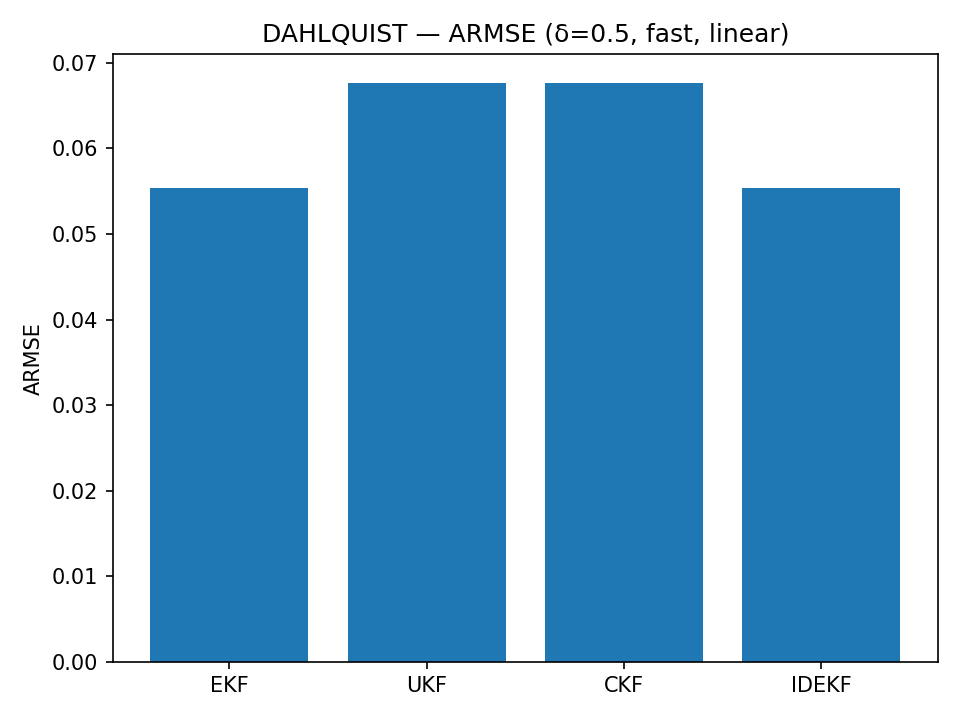
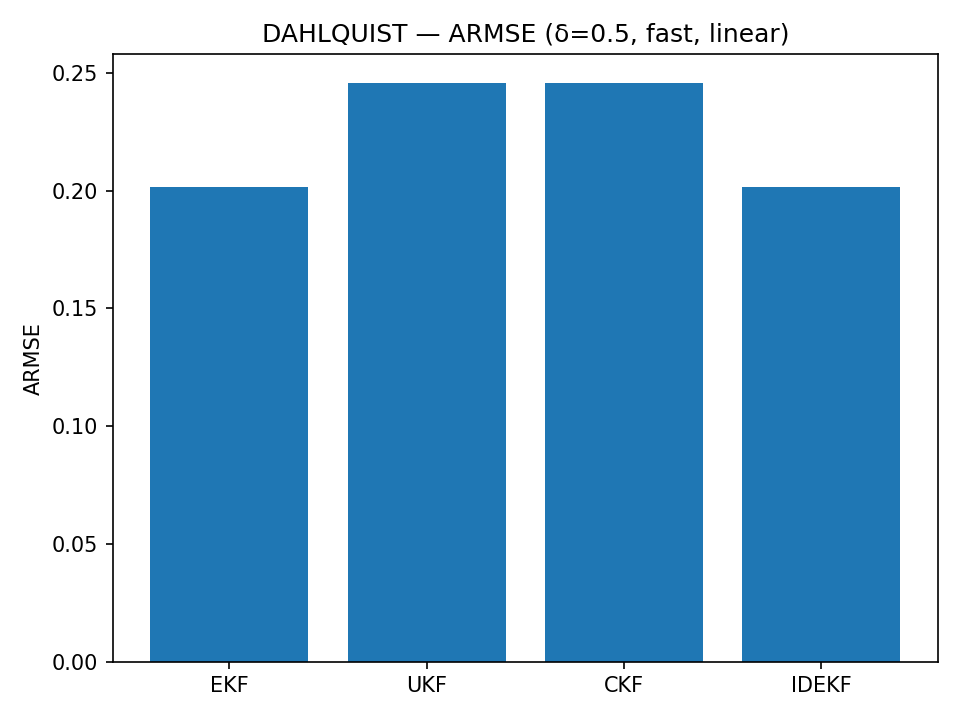
EM steps

diff --git a/run_armse.py b/run_armse.py
@@ -25,6 +25,39 @@ def integrate_truth(f, J, t0: float, tf: float, x0: np.ndarray, t_eval: np.ndarr
                     rtol=rtol, atol=atol, max_step=max_step)
     return sol.t, sol.y.T
 
+def simulate_truth_sde_em(f, G, Qc, t0: float, tf: float, x0: np.ndarray,
+                          t_grid: np.ndarray, max_dt: float, rng: np.random.Generator):
+    """
+    Simulate dx = f(t,x) dt + G dW, with diffusion sqrt(Qd) dW, Qd = G Qc G^T.
+    Uses Euler–Maruyama with substeps so each step <= max_dt.
+    """
+    # Make sure Qc is 2D
+    Qc = np.atleast_2d(Qc)
+    G  = np.atleast_2d(G)
+    Qd = G @ Qc @ G.T
+    # Cholesky of PSD Qd
+    L = np.linalg.cholesky(ensure_psd(Qd))
+
+    xs = [x0.astype(float).copy()]
+    t_prev = t_grid[0]
+    x = x0.astype(float).copy()
+
+    for t_curr in t_grid[1:]:
+        T = t_curr - t_prev
+        # number of EM substeps to respect absolute max_dt
+        n_sub = max(1, int(np.ceil(T / max_dt)))
+        h = T / n_sub
+        sqrt_h = np.sqrt(h)
+        t = t_prev
+        for _ in range(n_sub):
+            # Drift + diffusion
+            xi = rng.normal(size=L.shape[1])
+            x = x + f(t, x) * h + (L @ xi) * sqrt_h
+            t += h
+        xs.append(x.copy())
+        t_prev = t_curr
+    return t_grid, np.vstack(xs)
+
 # ------------------------------- Benchmark core -----------------------------
 
 def run_cd(case: str, deltas: List[float], N_runs: int, seed: int, outdir: str,
@@ -39,23 +72,21 @@ def run_cd(case: str, deltas: List[float], N_runs: int, seed: int, outdir: str,
 
     # profiles
     if profile == "paper":
-        integ_method = "Radau"
-        truth_rtol, truth_atol = 1e-12, 1e-12
+        integ_method = "Radau"          
         flt_rtol, flt_atol = 1e-12, 1e-12
-        maxstep_factor = 0.1
+        max_step_abs = 1.0e-1          
         vdp_mu = 1.0e4
         vdp_tf = 1.0
     else:  # fast
         integ_method = "BDF"
-        truth_rtol, truth_atol = 1e-3, 1e-3
         flt_rtol, flt_atol = 1e-6, 1e-9
-        maxstep_factor = 0.5
+        max_step_abs = np.inf           
         vdp_mu = 1.0e2
         vdp_tf = 1.0
 
     for delta in deltas:
         if case == "dahlquist":
-            mu, j = -1.0e4, 3        # linear, ill-conditioned
+            mu, j = -1.0e4, 3        # linear drift with nonlinear term j=3 in paper’s test
             f, J = dahlquist_f(mu, j), dahlquist_J(mu, j)
             G, Qc = dahlquist_G(), dahlquist_Qc()
             x0 = np.array([1.0], dtype=float)
@@ -84,10 +115,20 @@ def run_cd(case: str, deltas: List[float], N_runs: int, seed: int, outdir: str,
         for _ in range(N_runs):
             rng = np.random.default_rng(rng0.integers(1 << 32))
 
-            # Truth (drift-only) at the same sample grid
-            _, xs  = integrate_truth(f, J, t0, tf, x0, t_eval=t_grid,
-                                     rtol=truth_rtol, atol=truth_atol, method=integ_method,
-                                     max_step=maxstep_factor*delta)
+            # Use absolute max substep = 0.1 in 'paper' profile to mirror MaxStep.
+            if np.ndim(G) == 0 or np.ndim(Qc) == 0:
+                # Defensive: ensure array shapes
+                G_arr = np.atleast_2d(G)
+                Qc_arr = np.atleast_2d(Qc)
+            else:
+                G_arr, Qc_arr = np.array(G, dtype=float), np.array(Qc, dtype=float)
+
+            _, xs = simulate_truth_sde_em(
+                f=f, G=G_arr, Qc=Qc_arr,
+                t0=t0, tf=tf, x0=x0, t_grid=t_grid,
+                max_dt=max_step_abs if np.isfinite(max_step_abs) else delta,
+                rng=rng
+            )
             x_true = xs
 
             # Measurements
@@ -96,10 +137,14 @@ def run_cd(case: str, deltas: List[float], N_runs: int, seed: int, outdir: str,
                            for k in range(len(t_grid))])
 
             # Fresh filter objects each run (avoid state carryover, esp. IDEKF)
-            ekf   = CDEKF(cm, h, H, R, rtol=flt_rtol, atol=flt_atol, max_step=maxstep_factor*delta, method=integ_method)
-            ukf   = CDUKF(cm, h, R,      rtol=flt_rtol, atol=flt_atol, max_step=maxstep_factor*delta, method=integ_method)
-            ckf   = CDCKF(cm, h, R,      rtol=flt_rtol, atol=flt_atol, max_step=maxstep_factor*delta, method=integ_method)
-            idekf = CDIDEKF(cm, h, H, R, rtol=flt_rtol, atol=flt_atol, max_step=maxstep_factor*delta, method=integ_method)
+            ekf   = CDEKF(cm, h, H, R, rtol=flt_rtol, atol=flt_atol,
+                          max_step=max_step_abs, method=integ_method)
+            ukf   = CDUKF(cm, h, R,      rtol=flt_rtol, atol=flt_atol,
+                          max_step=max_step_abs, method=integ_method)
+            ckf   = CDCKF(cm, h, R,      rtol=flt_rtol, atol=flt_atol,
+                          max_step=max_step_abs, method=integ_method)
+            idekf = CDIDEKF(cm, h, H, R, rtol=flt_rtol, atol=flt_atol,
+                            max_step=max_step_abs, method=integ_method)
 
             for name, flt in [("EKF", ekf), ("UKF", ukf), ("CKF", ckf), ("IDEKF", idekf)]:
                 x, P = x0.copy(), np.eye(x0.size, dtype=float) * 1e-2
@@ -190,14 +235,14 @@ def export_armse_summary(results, outdir, case, profile, meas):
 
 if __name__ == "__main__":
     parser = argparse.ArgumentParser()
-    parser.add_argument("--case", choices=["dahlquist", "vdp"], default="vdp")
-    parser.add_argument("--runs", type=int, default=1)                
+    parser.add_argument("--case", choices=["dahlquist", "vdp"], default="dahlquist")
+    parser.add_argument("--runs", type=int, default=1)
     parser.add_argument("--seed", type=int, default=1)
     parser.add_argument("--outdir", type=str, default="results")
     fast = [0.1, 0.3, 0.5]
     slow = [0.1, 0.2, 0.3, 0.4, 0.5, 0.6, 0.7, 0.8, 0.9, 1.0]
     parser.add_argument("--deltas", type=float, nargs="*", default=fast)
-    parser.add_argument("--profile", choices=["fast","paper"], default="paper")
+    parser.add_argument("--profile", choices=["fast","paper"], default="fast")
     parser.add_argument("--meas", choices=["linear","nonlinear"], default="linear")
     args = parser.parse_args()
 
@@ -205,5 +250,5 @@ if __name__ == "__main__":
                  outdir=args.outdir, profile=args.profile, meas=args.meas)
     for d in sorted(res.keys()):
         print(f"delta={d:g}: EKF={res[d]['EKF']:.6g}, UKF={res[d]['UKF']:.6g}, CKF={res[d]['CKF']:.6g}, IDEKF={res[d]['IDEKF']:.6g}")
-    
+
     export_armse_summary(res, args.outdir, args.case, args.profile, args.meas)
